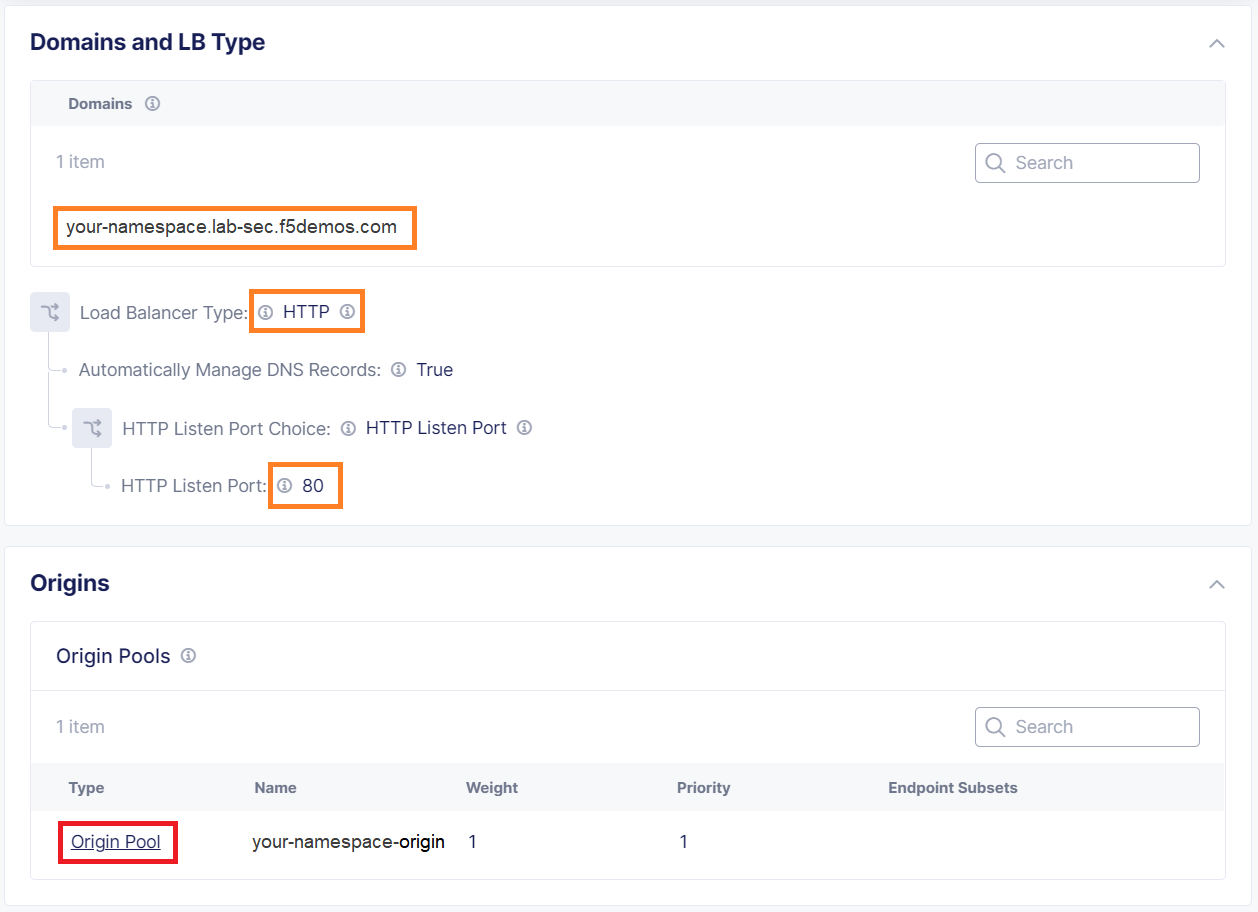
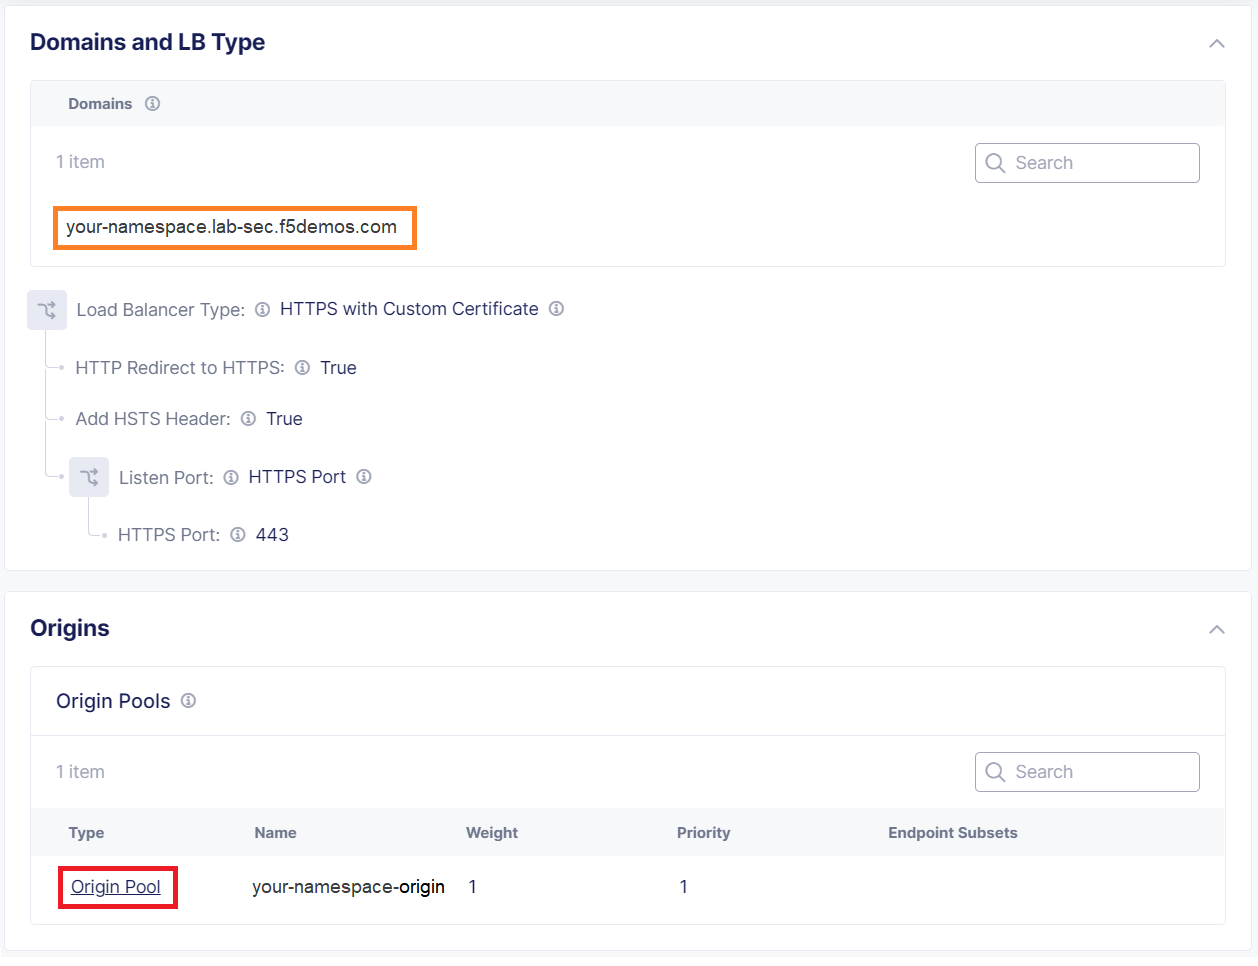
Updates to lab1 and 2

diff --git a/docs/class4/lab1.rst b/docs/class4/lab1.rst
@@ -54,16 +54,15 @@ This Load Balancer will be used throughout the course.
    -------------------------- --------------------------
    Name                       <namespace>-lb
    Domains                    <namespace>.lab-sec.f5demos.com
-   Type                       HTTP
-   Manage DNS                 Enabled
-   Port                       80
+   Type                       HTTPS
+   Port                       443
    Advertisement              Internet
    ========================== ==========================
 
    ========================== ==========================
    **Origin Pool**            **Configuration**
    -------------------------- --------------------------
-   Name                       <namespace>-pool
+   Name                       <namespace>-origin
    Type                       Public DNS
    Name/IP                    bankapi.lab-sec.f5demos.com
    Port                       80

diff --git a/docs/class4/lab2.rst b/docs/class4/lab2.rst
@@ -75,7 +75,7 @@ In this task's series of steps you will create a API Definition using a shared O
    .. image:: _static/lab2-def-additem.png
       :width: 800px
 
-#. Select a Shared OpenAPI file. It will be in the format **shared/api-lab-swagger/v1-<date>**.
+#. Select a Shared OpenAPI file. It will be in the format **shared/api-lab-swagger/v1-25-01-31**.
 
    .. image:: _static/lab2-def-select-shared.png
       :width: 800px
